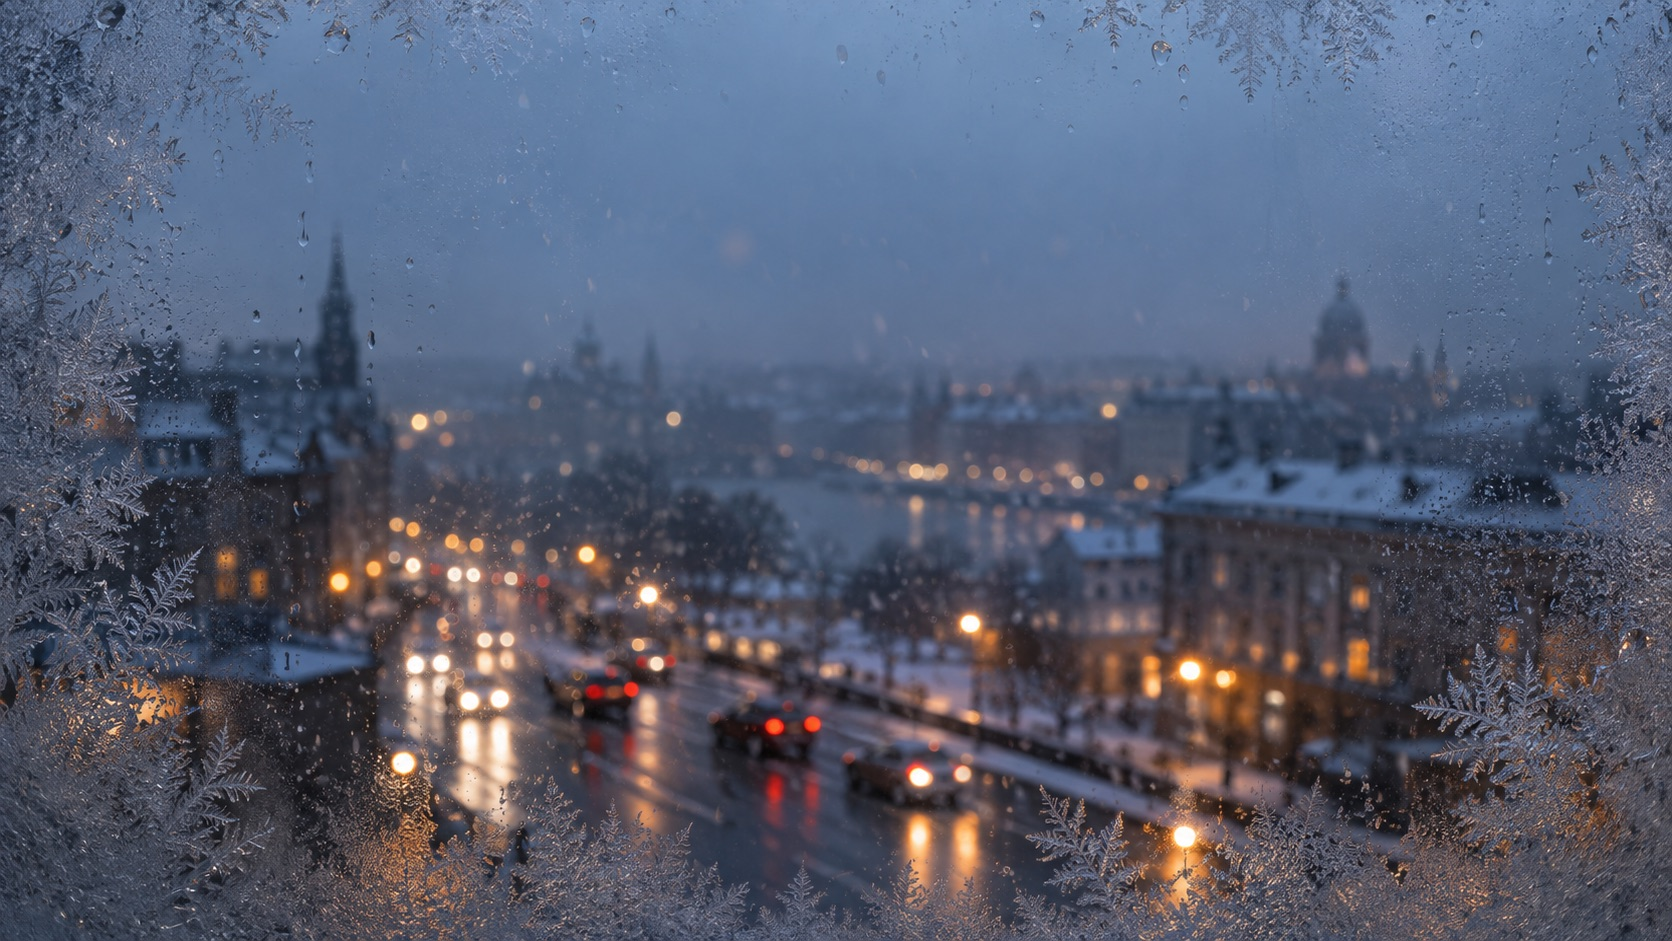
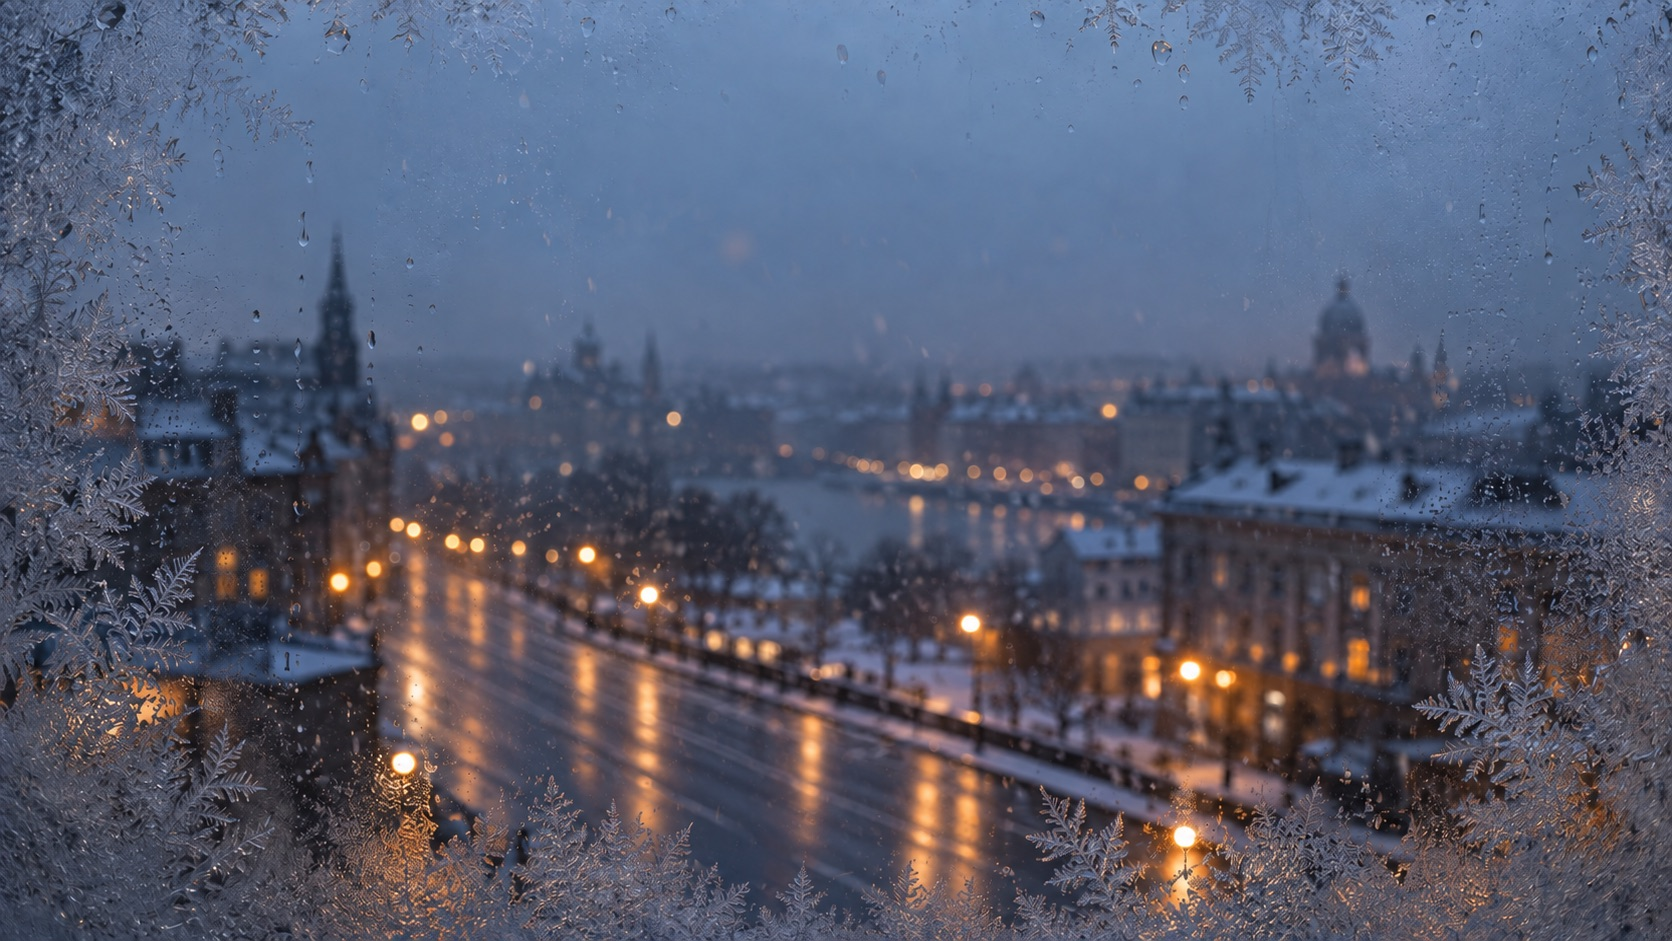
Animate perspective traffic with refracted lights and road reflections

diff --git a/assets/winter.js b/assets/winter.js
@@ -1,40 +1,166 @@
 (() => {
   'use strict';
   const scene = document.querySelector('.winter-scene');
-  const canvas = document.getElementById('winterSnow');
-  if (!scene || !canvas) return;
-  const ctx = canvas.getContext('2d');
-  if (!ctx) return;
+  const snow = document.getElementById('winterSnow');
+  const traffic = document.getElementById('winterTraffic');
+  if (!scene || !snow || !traffic) return;
+  const ctx = snow.getContext('2d');
+  const road = traffic.getContext('2d');
+  if (!ctx || !road) return;
   const reducedMotion = window.matchMedia('(prefers-reduced-motion: reduce)');
-  let width = 0, height = 0, flakes = [], frame = 0, last = 0;
+  const PHOTO = {width:1672, height:941};
+  const sprites = [
+    {crop:[24,20,300,218], anchor:[.67,.95], lamps:[[.553,.725],[.933,.633]], near:[1030,985]},
+    {crop:[372,42,264,188], anchor:[.64,.936], lamps:[[.542,.628],[.936,.548]], near:[1300,960]},
+  ];
+  // Shared lane speed and fixed spacing prevent cars from passing through one another.
+  const cars = Array.from({length:10}, (_, i) => ({
+    lane:i % 2, depth:.9 + Math.floor(i / 2) * 1.45 + (i % 2) * .52,
+    size:.92 + (i % 3) * .06,
+  }));
+  const atlas = new Image();
+  let ready = false, width = 0, height = 0, cover = 1, offsetX = 0, offsetY = 0;
+  let flakes = [], frame = 0, last = 0, remainder = 0, elapsed = 0;
+  const clamp = (v, min = 0, max = 1) => Math.max(min, Math.min(max, v));
+
+  function lightTexture(tail) {
+    const tile = document.createElement('canvas');
+    tile.width = tile.height = 128;
+    const c = tile.getContext('2d');
+    const g = c.createRadialGradient(64,64,0,64,64,64);
+    const colors = tail
+      ? [[0,'rgba(255,207,150,.96)'],[.22,'rgba(255,87,53,.94)'],[.44,'rgba(243,50,30,.65)'],[.72,'rgba(245,55,22,.14)'],[1,'rgba(245,55,22,0)']]
+      : [[0,'rgba(255,255,239,1)'],[.23,'rgba(255,246,217,.98)'],[.45,'rgba(255,222,163,.78)'],[.72,'rgba(248,190,115,.14)'],[1,'rgba(248,190,115,0)']];
+    colors.forEach(([stop,color]) => g.addColorStop(stop,color));
+    c.fillStyle = g;
+    c.fillRect(0,0,128,128);
+    return tile;
+  }
+  const lights = [lightTexture(false), lightTexture(true)];
+
+  function reflectionTexture(tail) {
+    const tile = document.createElement('canvas');
+    tile.width = 96; tile.height = 256;
+    const c = tile.getContext('2d');
+    const color = tail ? '246,61,35' : '255,214,155';
+    // Broken horizontal bands suggest ripples on wet asphalt, not solid light columns.
+    for (let y = 0; y < 256; y += 3) {
+      const taper = 1 - y / 256;
+      const middle = 48 + Math.sin(y * .09) * 5;
+      const half = 9 + taper * 22 + Math.sin(y * .61) * 5;
+      const g = c.createLinearGradient(middle-half,0,middle+half,0);
+      g.addColorStop(0,`rgba(${color},0)`);
+      g.addColorStop(.5,`rgba(${color},${taper * taper * (.24 + (1 + Math.sin(y * 1.7)) * .2)})`);
+      g.addColorStop(1,`rgba(${color},0)`);
+      c.fillStyle = g; c.fillRect(0,y,96,2);
+    }
+    return tile;
+  }
+  const reflections = [reflectionTexture(false), reflectionTexture(true)];
+
+  atlas.onload = () => {
+    for (const sprite of sprites) {
+      const tile = document.createElement('canvas');
+      const [x,y,w,h] = sprite.crop;
+      tile.width = w + 24; tile.height = h + 24;
+      const c = tile.getContext('2d');
+      c.filter = 'blur(5px) brightness(.78) saturate(.65)';
+      c.drawImage(atlas,x,y,w,h,12,12,w,h);
+      sprite.image = tile;
+    }
+    ready = true;
+    drawTraffic(0);
+  };
+  atlas.src = 'assets/winter-cars.png';
 
   function resize() {
     width = window.innerWidth;
     height = window.innerHeight;
     const scale = Math.min(window.devicePixelRatio || 1, 1.5);
-    canvas.width = Math.round(width * scale);
-    canvas.height = Math.round(height * scale);
-    ctx.setTransform(scale, 0, 0, scale, 0, 0);
-    flakes = Array.from({length: width < 640 ? 42 : 86}, () => ({
-      x: Math.random() * width,
-      y: Math.random() * height,
-      radius: .5 + Math.random() * 1.6,
-      speed: 11 + Math.random() * 22,
-      drift: 2 + Math.random() * 7,
-      phase: Math.random() * Math.PI * 2,
-      alpha: .2 + Math.random() * .5,
+    for (const canvas of [snow,traffic]) {
+      canvas.width = Math.round(width * scale);
+      canvas.height = Math.round(height * scale);
+      canvas.getContext('2d').setTransform(scale,0,0,scale,0,0);
+    }
+    // Match the wallpaper's CSS cover/crop exactly, including the narrow-screen crop.
+    cover = Math.max(width / PHOTO.width, height / PHOTO.height);
+    offsetX = (width - PHOTO.width * cover) * (width <= 640 ? .53 : .5);
+    offsetY = (height - PHOTO.height * cover) * .5;
+    flakes = Array.from({length:width < 640 ? 42 : 86}, () => ({
+      x:Math.random() * width, y:Math.random() * height,
+      radius:.5 + Math.random() * 1.6, speed:11 + Math.random() * 22,
+      drift:2 + Math.random() * 7, phase:Math.random() * Math.PI * 2,
+      alpha:.2 + Math.random() * .5,
     }));
-    draw(0, 0);
+    draw(0);
   }
-  function draw(delta, time) {
-    ctx.clearRect(0, 0, width, height);
+
+  function drawTraffic(delta) {
+    road.clearRect(0,0,width,height);
+    if (!ready) return;
+    for (const car of cars) {
+      car.depth += (car.lane ? .24 : -.28) * delta;
+      if (car.depth < .65) car.depth += 7.25;
+      if (car.depth > 7.9) car.depth -= 7.25;
+    }
+    road.save();
+    road.translate(offsetX,offsetY);
+    road.scale(cover,cover);
+    // Constant road speed projects to increasing size/screen speed near the camera.
+    const ordered = [...cars].sort((a,b) => b.depth - a.depth);
+    for (const car of ordered) {
+      const sprite = sprites[car.lane];
+      const p = 1 / car.depth;
+      const x = 420 + (sprite.near[0] - 420) * p;
+      const y = 565 + (sprite.near[1] - 565) * p;
+      const w = 220 * p * car.size;
+      const h = w * sprite.crop[3] / sprite.crop[2];
+      const alpha = clamp((7.9-car.depth) / 1.1) * clamp((PHOTO.height * 1.025-y) / 135);
+      if (alpha <= 0 || (x+w)*cover+offsetX < 0 || (x-w)*cover+offsetX > width) continue;
+      const left = x-w*sprite.anchor[0], top = y-h*sprite.anchor[1];
+      const lamps = sprite.lamps.map(([u,v]) => ({x:left+w*u,y:top+h*v}));
+      road.globalCompositeOperation = 'screen';
+      for (const lamp of lamps) {
+        road.globalAlpha = alpha * .86;
+        road.drawImage(reflections[car.lane],lamp.x-w*.15,lamp.y+w*.12,w*.3,w*1.12);
+      }
+      road.globalCompositeOperation = 'source-over';
+      road.globalAlpha = alpha * .88;
+      const padding = w * 12 / sprite.crop[2];
+      road.drawImage(sprite.image,left-padding,top-padding,w+padding*2,h+padding*2);
+      road.globalCompositeOperation = 'screen';
+      for (const lamp of lamps) {
+        // A fixed glass field bends moving light; it never makes the car itself jitter.
+        const wave = Math.sin(lamp.x*.047 + Math.sin(lamp.y*.031)*2);
+        const bend = Math.sin(lamp.y*.063 + lamp.x*.021);
+        const radius = (car.lane ? .12 : .155) * w + 1.5;
+        const lx = lamp.x + wave * Math.min(2.8,w*.024);
+        const ly = lamp.y + bend * Math.min(1.8,w*.018);
+        road.globalAlpha = alpha * (.9 + wave*.1);
+        road.drawImage(lights[car.lane],lx-radius,ly-radius*.87,radius*2,radius*1.74);
+        // A faint offset refraction and vertical smear through condensation.
+        road.globalAlpha = alpha * (.1 + Math.abs(bend)*.07);
+        road.drawImage(lights[car.lane],lx-radius*.55+wave*5,ly-radius*1.75,radius*1.1,radius*3.5);
+        road.globalAlpha = alpha * .07;
+        road.drawImage(lights[car.lane],lx-radius*2.3,ly-radius*.25,radius*4.6,radius*.5);
+      }
+    }
+    road.restore();
+    road.globalAlpha = 1;
+    road.globalCompositeOperation = 'source-over';
+  }
+
+  function draw(delta) {
+    elapsed += delta;
+    drawTraffic(delta);
+    ctx.clearRect(0,0,width,height);
     for (const flake of flakes) {
       flake.y += flake.speed * delta;
-      flake.x += (flake.drift + Math.sin(time / 2400 + flake.phase) * 5) * delta;
-      if (flake.y > height + 5) { flake.y = -5; flake.x = Math.random() * width; }
-      if (flake.x > width + 5) flake.x = -5;
+      flake.x += (flake.drift + Math.sin(elapsed/2.4 + flake.phase)*5) * delta;
+      if (flake.y > height+5) { flake.y = -5; flake.x = Math.random()*width; }
+      if (flake.x > width+5) flake.x = -5;
       ctx.beginPath();
-      ctx.arc(flake.x, flake.y, flake.radius, 0, Math.PI * 2);
+      ctx.arc(flake.x,flake.y,flake.radius,0,Math.PI*2);
       ctx.fillStyle = `rgba(236,246,255,${flake.alpha})`;
       ctx.fill();
     }
@@ -42,23 +168,25 @@
   function tick(time) {
     if (document.hidden || reducedMotion.matches) { frame = 0; return; }
     if (!last) last = time;
-    if (time - last >= 1000 / 30) {
-      draw(Math.min((time - last) / 1000, .06), time);
-      last = time;
+    remainder += Math.min((time-last)/1000,.1);
+    last = time;
+    const steps = Math.floor((remainder + 1e-8) * 30);
+    if (steps > 0) {
+      const delta = steps / 30;
+      remainder = Math.max(0,remainder-delta);
+      draw(delta);
     }
     frame = requestAnimationFrame(tick);
   }
   function syncMotion() {
     cancelAnimationFrame(frame);
-    frame = 0;
-    last = 0;
-    scene.classList.toggle('winter-paused', document.hidden || reducedMotion.matches);
+    frame = 0; last = 0; remainder = 0;
     if (!document.hidden && !reducedMotion.matches) frame = requestAnimationFrame(tick);
-    else draw(0, 0);
+    else draw(0);
   }
-  window.addEventListener('resize', resize, {passive:true});
-  document.addEventListener('visibilitychange', syncMotion);
-  reducedMotion.addEventListener('change', syncMotion);
+  window.addEventListener('resize',resize,{passive:true});
+  document.addEventListener('visibilitychange',syncMotion);
+  reducedMotion.addEventListener('change',syncMotion);
   resize();
   syncMotion();
 })();

diff --git a/assets/winter.css b/assets/winter.css
@@ -27,12 +27,7 @@ body{background:var(--winter-base); isolation:isolate;}
 .winter-scene{position:fixed; inset:0; z-index:-1; overflow:hidden; pointer-events:none; contain:strict; background:#283b50;}
 .winter-street{position:absolute; inset:0; background:url('./winter-window.jpg') center center/cover no-repeat;}
 .winter-street::after{content:""; position:absolute; inset:0; background:linear-gradient(180deg,rgba(7,18,31,.22),transparent 48%,rgba(5,16,28,.08));}
-.winter-traffic{position:absolute; inset:0; opacity:.66; filter:blur(7px);}
-.passing-light{position:absolute; left:29%; top:65%; width:96px; height:20px; border-radius:50%; color:#ffe4b7; background:radial-gradient(ellipse at 28% 50%,currentColor 0 10%,transparent 35%),radial-gradient(ellipse at 75% 50%,currentColor 0 10%,transparent 35%); animation:streetPass 20s linear infinite;}
-.passing-light::after{content:""; position:absolute; top:22px; left:12px; width:72px; height:65px; background:linear-gradient(currentColor,transparent); opacity:.17; transform:skewX(-25deg); filter:blur(6px);}
-.passing-light:nth-child(2){left:34%; top:65%; color:#f7b39a; animation-duration:26s; animation-delay:-14s; animation-direction:reverse; width:62px; opacity:.65;}
-.passing-light:nth-child(3){left:28%; top:66%; animation-duration:29s; animation-delay:-21s; width:70px; opacity:.55;}
-@keyframes streetPass{0%{transform:translate(0,0) scale(.4); opacity:0;}12%,76%{opacity:.7;}100%{transform:translate(42vw,42vh) scale(1.2); opacity:0;}}
+.winter-traffic{position:absolute; inset:0; width:100%; height:100%; opacity:.9; filter:blur(1.2px);}
 .winter-snow{position:absolute; inset:0; width:100%; height:100%; opacity:.72; filter:blur(.35px);}
 .winter-frost{position:absolute; inset:0; background:radial-gradient(ellipse at 0 12%,rgba(222,237,249,.22),transparent 43%),radial-gradient(ellipse at 100% 90%,rgba(215,233,248,.18),transparent 37%),var(--winter-wash); box-shadow:inset 0 0 95px rgba(215,231,246,.12);}
 .page{isolation:isolate;}
@@ -51,12 +46,7 @@ body{background:var(--winter-base); isolation:isolate;}
 .icon-btn{border-radius:8px; background:var(--card); -webkit-backdrop-filter:blur(12px); backdrop-filter:blur(12px);}
 #tooltip{background:var(--winter-base); border-radius:8px;}
 footer{align-self:flex-start; background:var(--card); padding:6px 10px; border:1px solid var(--border); border-radius:8px; font-size:11px;}
-.winter-paused .passing-light{animation-play-state:paused;}
 @media(max-width:640px){
   .winter-street{background-position:53% center;}
-  .winter-traffic{display:none;}
   .card,.summary,.results-bar,.side-panel,.side-tabs{-webkit-backdrop-filter:blur(12px); backdrop-filter:blur(12px);}
-}
-@media(prefers-reduced-motion:reduce){
-  .passing-light{animation:none; display:none;}
 }

diff --git a/index.html b/index.html
@@ -480,7 +480,7 @@ button.badge-btn:hover{box-shadow:0 0 0 1px var(--primary) inset;}
 <body>
 <div class="winter-scene" aria-hidden="true">
   <div class="winter-street"></div>
-  <div class="winter-traffic"><i class="passing-light"></i><i class="passing-light"></i><i class="passing-light"></i></div>
+  <canvas class="winter-traffic" id="winterTraffic"></canvas>
   <canvas class="winter-snow" id="winterSnow"></canvas>
   <div class="winter-frost"></div>
 </div>

diff --git a/README.md b/README.md
@@ -46,7 +46,7 @@ The window determines which positions appear and which trades contribute fees. P
 - Open **Date range**, select the start and end dates in one calendar, then **Apply**. **Clear** removes the range when applied; Escape cancels unfinished changes.
 - Click **Snapshot** to copy the visible results table as an image. If image clipboard access is unavailable, the app downloads a PNG instead.
 - Use the theme button to switch between light and dark mode.
-- A frosted winter street wallpaper sits behind the glass panels, with gentle snowfall and passing lights. Motion pauses in hidden tabs and respects your device's reduced-motion setting.
+- A frosted winter street wallpaper sits behind the glass panels, with gentle snowfall, moving cars, refracted lights and wet-road reflections. Motion pauses in hidden tabs and respects your device's reduced-motion setting.
 - Use **Clear** beside **Check activity** to empty the address field. Saved bookmarks and current results stay available.
 - Use **Reset filters** to clear result filters, or **Check activity** again to reload data.
 
